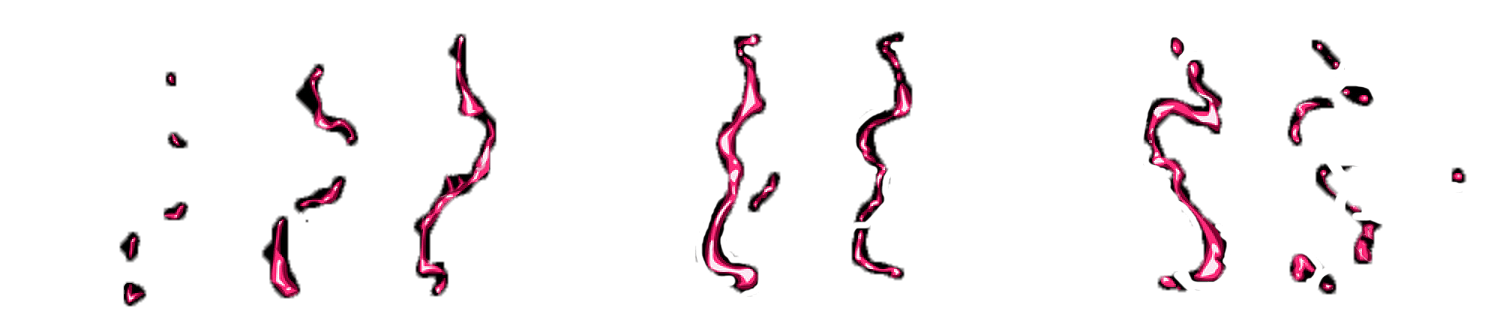
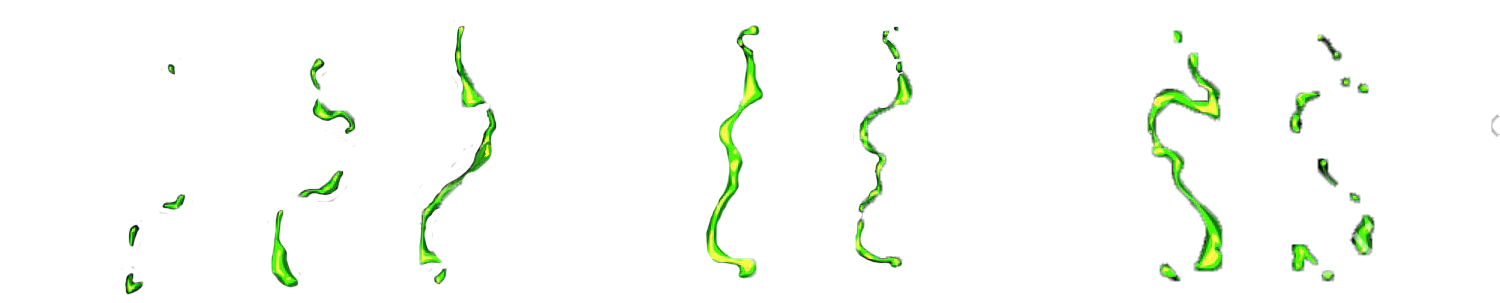
finished lightning renderer

diff --git a/Source/JS/main.js b/Source/JS/main.js
@@ -90,7 +90,7 @@ import {
       NUM_SAMPLES,
       0
     );
-    AudioManager.playStream("./media/infamousTrack.mp3");
+    // AudioManager.playStream("./media/infamousTrack.mp3");
     //AudioManager.selectStream("./media/infamousTrack.mp3"); // Used to prevent autoplay
 
     flames = [
@@ -130,10 +130,11 @@ import {
         numberOfFrames: 16
       })
     ];
-    let selection = false;
-    for (let i = 0; i < 6; i++) {
+    let selection = 0;
+    for (let i = 0; i < 10; i++) {
       let nwLightning;
-      if (!selection) {
+      selection = Math.random() * 4;
+      if (selection < 1) {
         nwLightning = new Lightning(
           new SpriteSheet({
             context: ctx,
@@ -145,34 +146,79 @@ import {
           }),
           2000,
           3,
-          300,
-          300,
           dw,
           1.5,
           1.5,
           i
         );
-        selection = true;
+      } else if (selection >= 1 && selection < 2) {
+        nwLightning = new Lightning(
+          new SpriteSheet({
+            context: ctx,
+            width: 1500,
+            height: 303,
+            image: imgData[4],
+            ticksPerFrame: 3,
+            numberOfFrames: 11
+          }),
+          1500,
+          3,
+          dw,
+          0.4,
+          0.4,
+          i
+        );
+      } else if (selection >= 2 && selection < 3) {
+        nwLightning = new Lightning(
+          new SpriteSheet({
+            context: ctx,
+            width: 1500,
+            height: 303,
+            image: imgData[5],
+            ticksPerFrame: 3,
+            numberOfFrames: 11
+          }),
+          1500,
+          3,
+          dw,
+          0.4,
+          0.4,
+          i
+        );
+      } else if (selection >= 3 && selection < 4) {
+        nwLightning = new Lightning(
+          new SpriteSheet({
+            context: ctx,
+            width: 1500,
+            height: 303,
+            image: imgData[6],
+            ticksPerFrame: 3,
+            numberOfFrames: 11
+          }),
+          1500,
+          3,
+          dw,
+          0.4,
+          0.4,
+          i
+        );
       } else {
         nwLightning = new Lightning(
           new SpriteSheet({
             context: ctx,
-            width: 1024,
-            height: 512,
-            image: imgData[4],
-            ticksPerFrame: 1,
-            numberOfFrames: 8
+            width: 1500,
+            height: 303,
+            image: imgData[5],
+            ticksPerFrame: 3,
+            numberOfFrames: 11
           }),
-          2000,
+          1500,
           3,
-          300,
-          300,
           dw,
           0.4,
           0.4,
           i
         );
-        selection = false;
       }
       lightning.push(nwLightning);
     }
@@ -388,11 +434,13 @@ import {
 
     manipulateEyes();
 
+    let index = 0;
     for (let lightmem of lightning) {
       lightmem.xOff = canvas.width / 2;
       lightmem.yOff = canvas.height / 2;
-      lightmem.update();
+      lightmem.update(-waveData[index] / 3, waveData[index + 1] / 6);
       lightmem.render();
+      index++;
     }
   }
 
@@ -524,7 +572,6 @@ import {
 
     let leftData = leftEye.data;
     let leftLength = leftData.length;
-
     let rightData = rightEye.data;
 
     let colors = getRandomColor();
@@ -577,8 +624,9 @@ import {
         "./images/flames.png",
         "./images/vortex.png",
         "./images/lightning1.png",
-        "./images/lightning3.png",
-        "./images/lightning4.png"
+        "./images/lightning2.png",
+        "./images/lightning4.png",
+        "./images/lightning6.png"
       ],
       init
     );

diff --git a/Source/JS/JS_Sprites/lightning.js b/Source/JS/JS_Sprites/lightning.js
@@ -7,8 +7,6 @@ export default class Lightning {
     spriteSheet,
     waitTime,
     lightningSpeed,
-    x,
-    y,
     drawRef,
     scaleX,
     scaleY,
@@ -16,8 +14,8 @@ export default class Lightning {
   ) {
     this.spriteSheet = spriteSheet;
     this.wait = waitTime;
-    this.x = x;
-    this.y = y;
+    this.x = -1000;
+    this.y = -1000;
     this.alpha = 0;
     this.allowedUpdate = false;
     this.queueDeath = false;
@@ -38,7 +36,7 @@ export default class Lightning {
     this.allowedUpdate = true;
   }
 
-  update() {
+  update(updX = 0, updY = 0) {
     if (this.allowedUpdate) {
       this.spriteSheet.update();
       if (this.alpha < 1 && !this.queueDeath) this.alpha += this.interpAlpha;
@@ -48,14 +46,16 @@ export default class Lightning {
       else if (this.queueDeath && this.alpha <= 0) {
         this.queueDeath = false;
         if (this.id <= 3) {
-          this.x = this.xOff + Math.random() * 300;
-          this.y = this.yOff - Math.random() * 250;
+          this.x = this.xOff + updX + Math.random() * 300;
+          this.y = this.yOff + updY - Math.random() * 250;
         } else {
-          this.x = this.xOff - Math.random() * 300;
-          this.y = this.yOff - Math.random() * 250;
+          this.x = this.xOff + updY - Math.random() * 300;
+          this.y = this.yOff + updY - Math.random() * 250;
         }
+
         this.randNum = Math.floor(Math.random() * 90); // this will get a number between 1 and 99;
         this.randNum *= Math.floor(Math.random() * 2) == 1 ? 1 : -1;
+
         this.activate();
       }
     }
